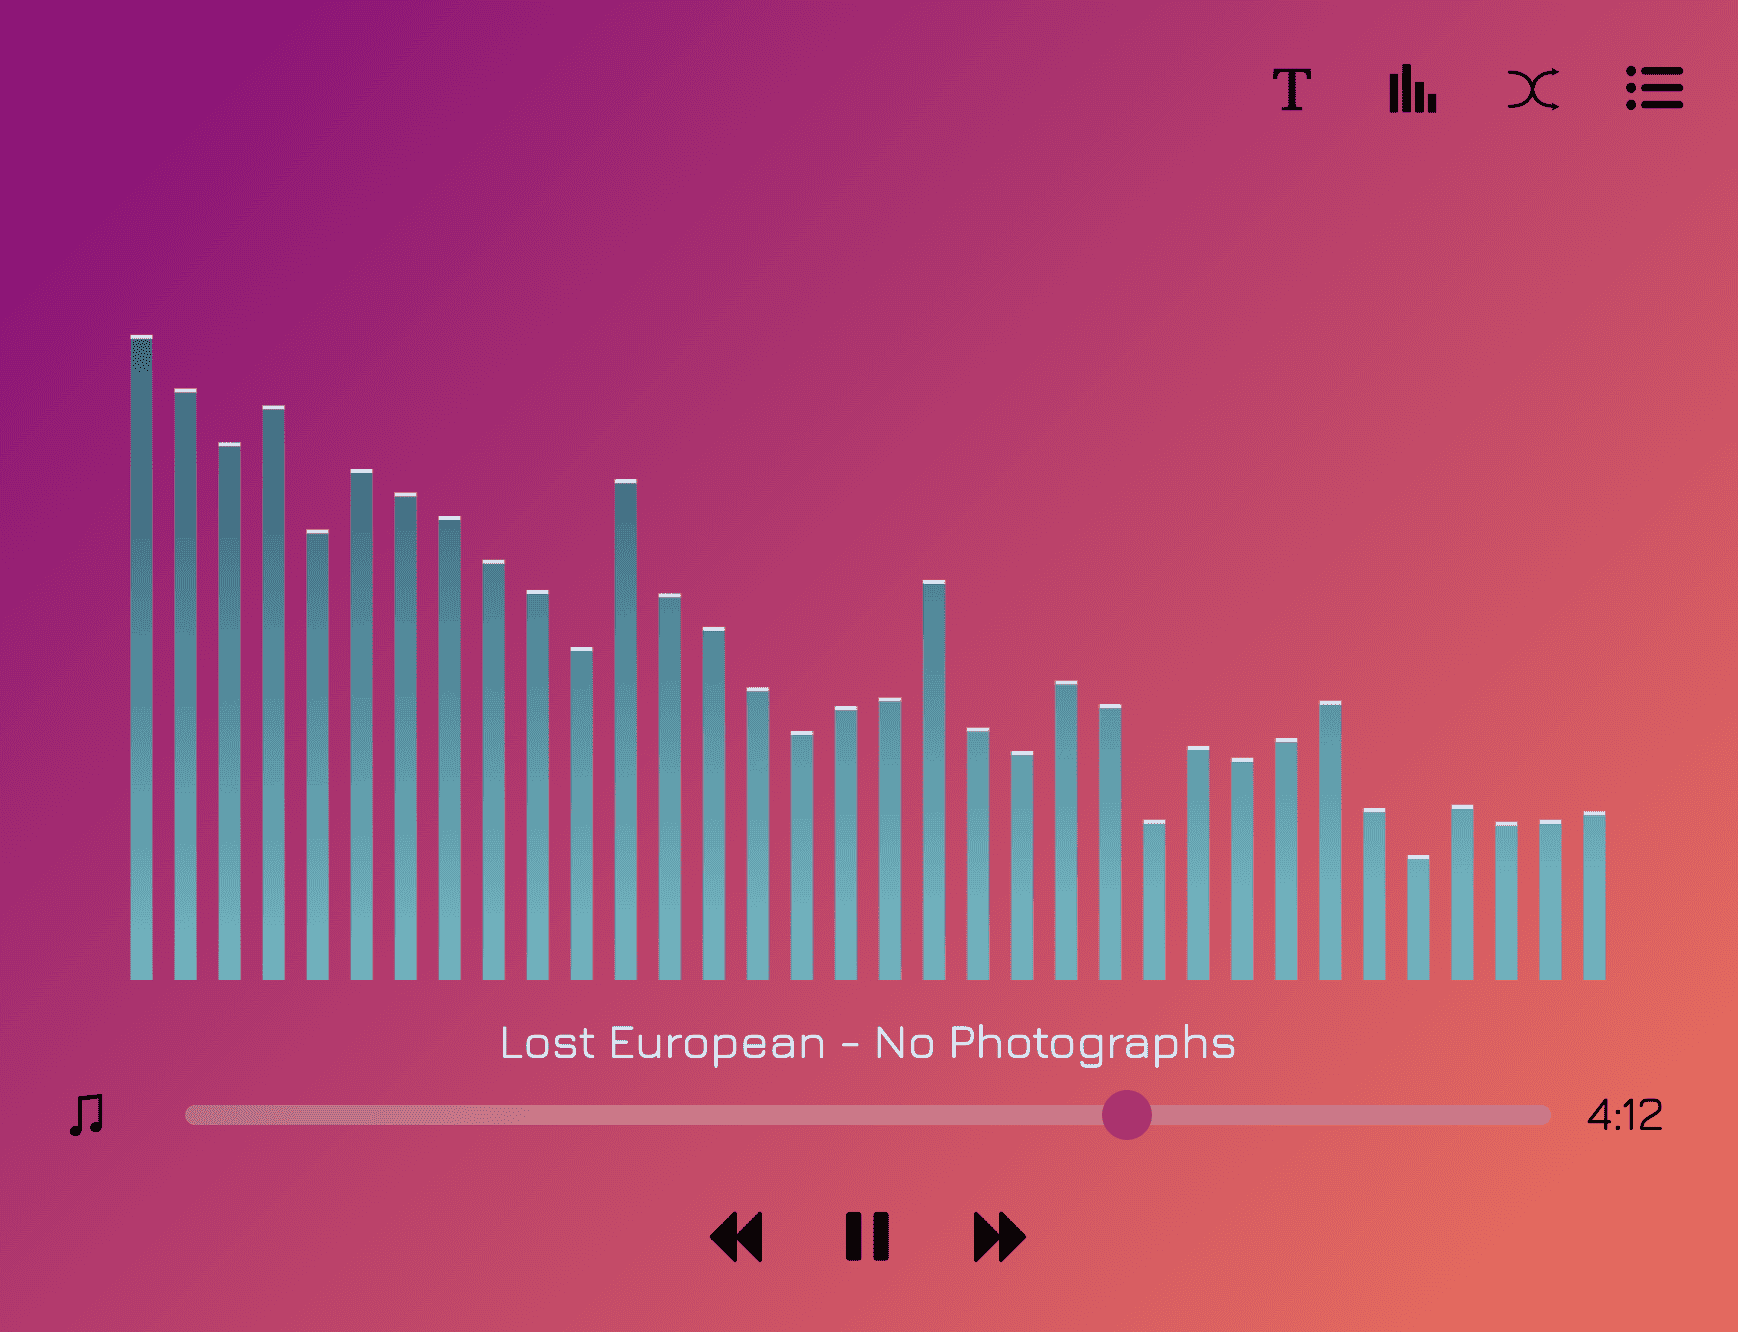
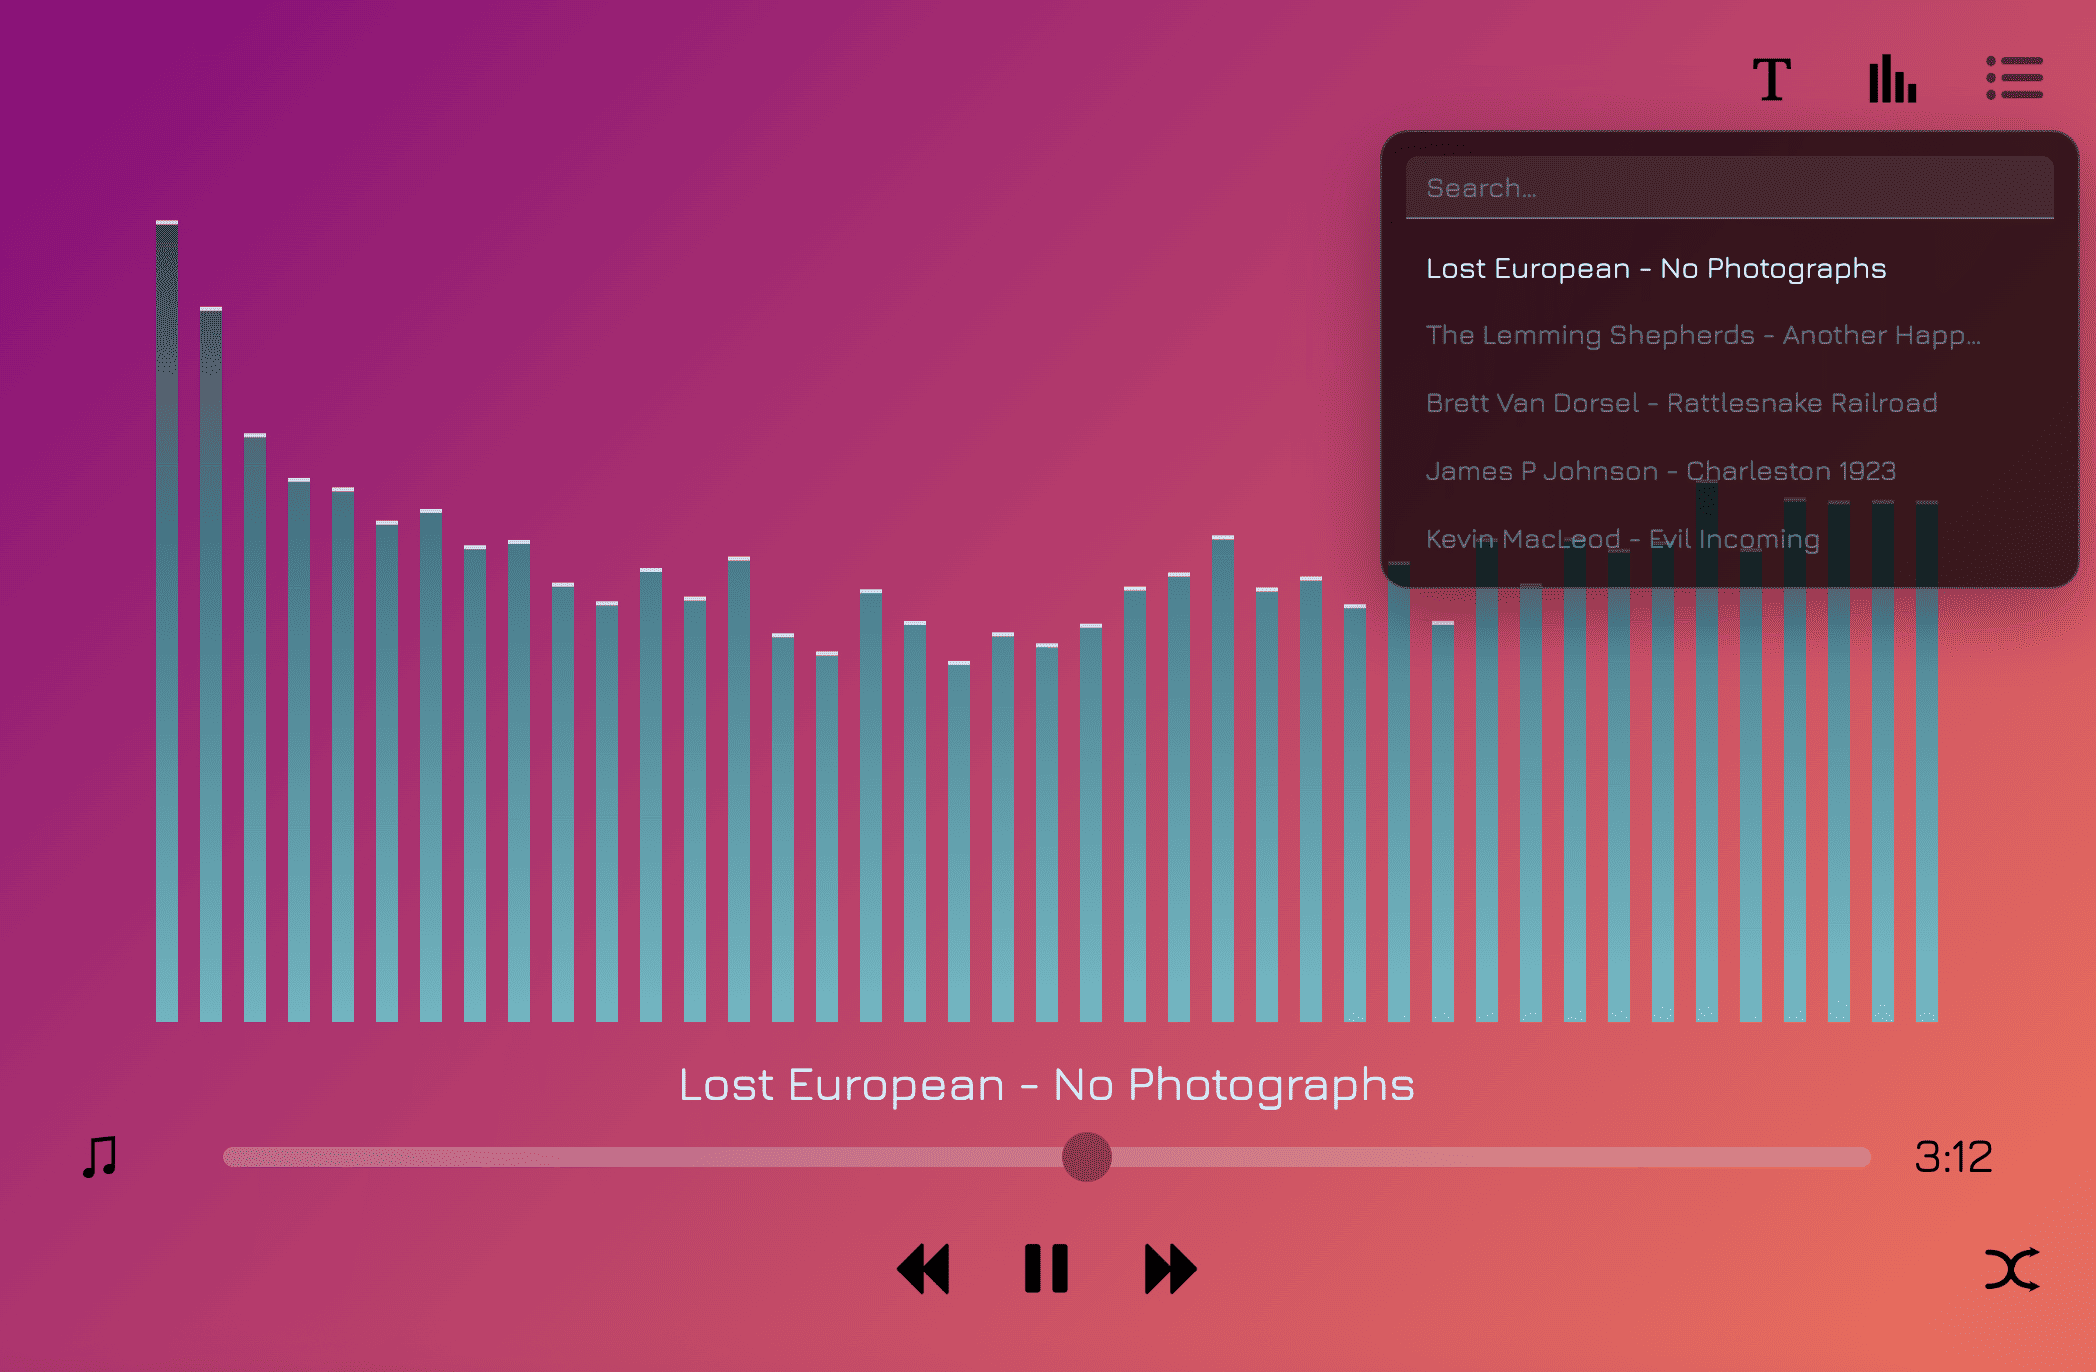
Fix first song's marquee & update demo image

diff --git a/scripts/player.js b/scripts/player.js
@@ -373,11 +373,11 @@ function showFirst() {
       navigator.mediaSession.playbackState === 'paused') &&
     DOM.audio.src === ''
   ) {
+    DOM.songName.style.display = 'inline-block'
     updateTitle()
     disableLoader()
 
     DOM.audio.src = songUrl(Player.songs[0])
-    DOM.songName.style.display = 'inline-block'
     loadSongLyrics()
   }
 }